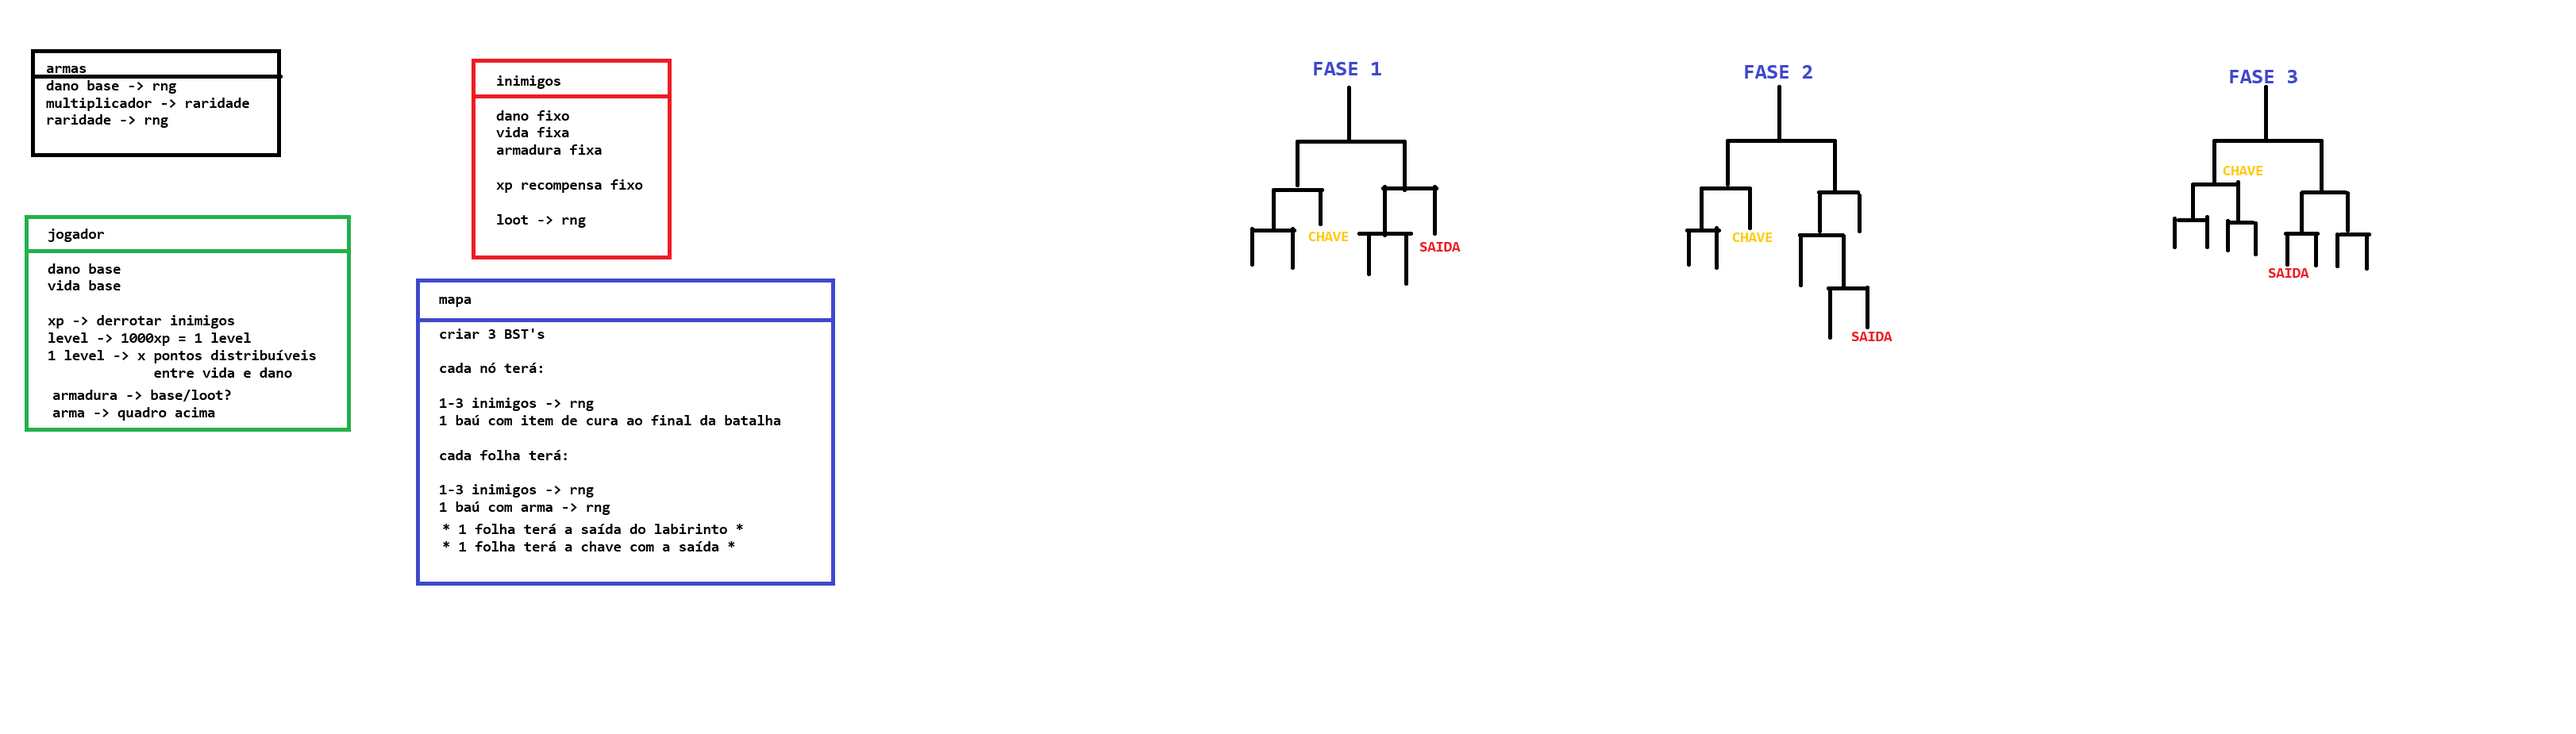
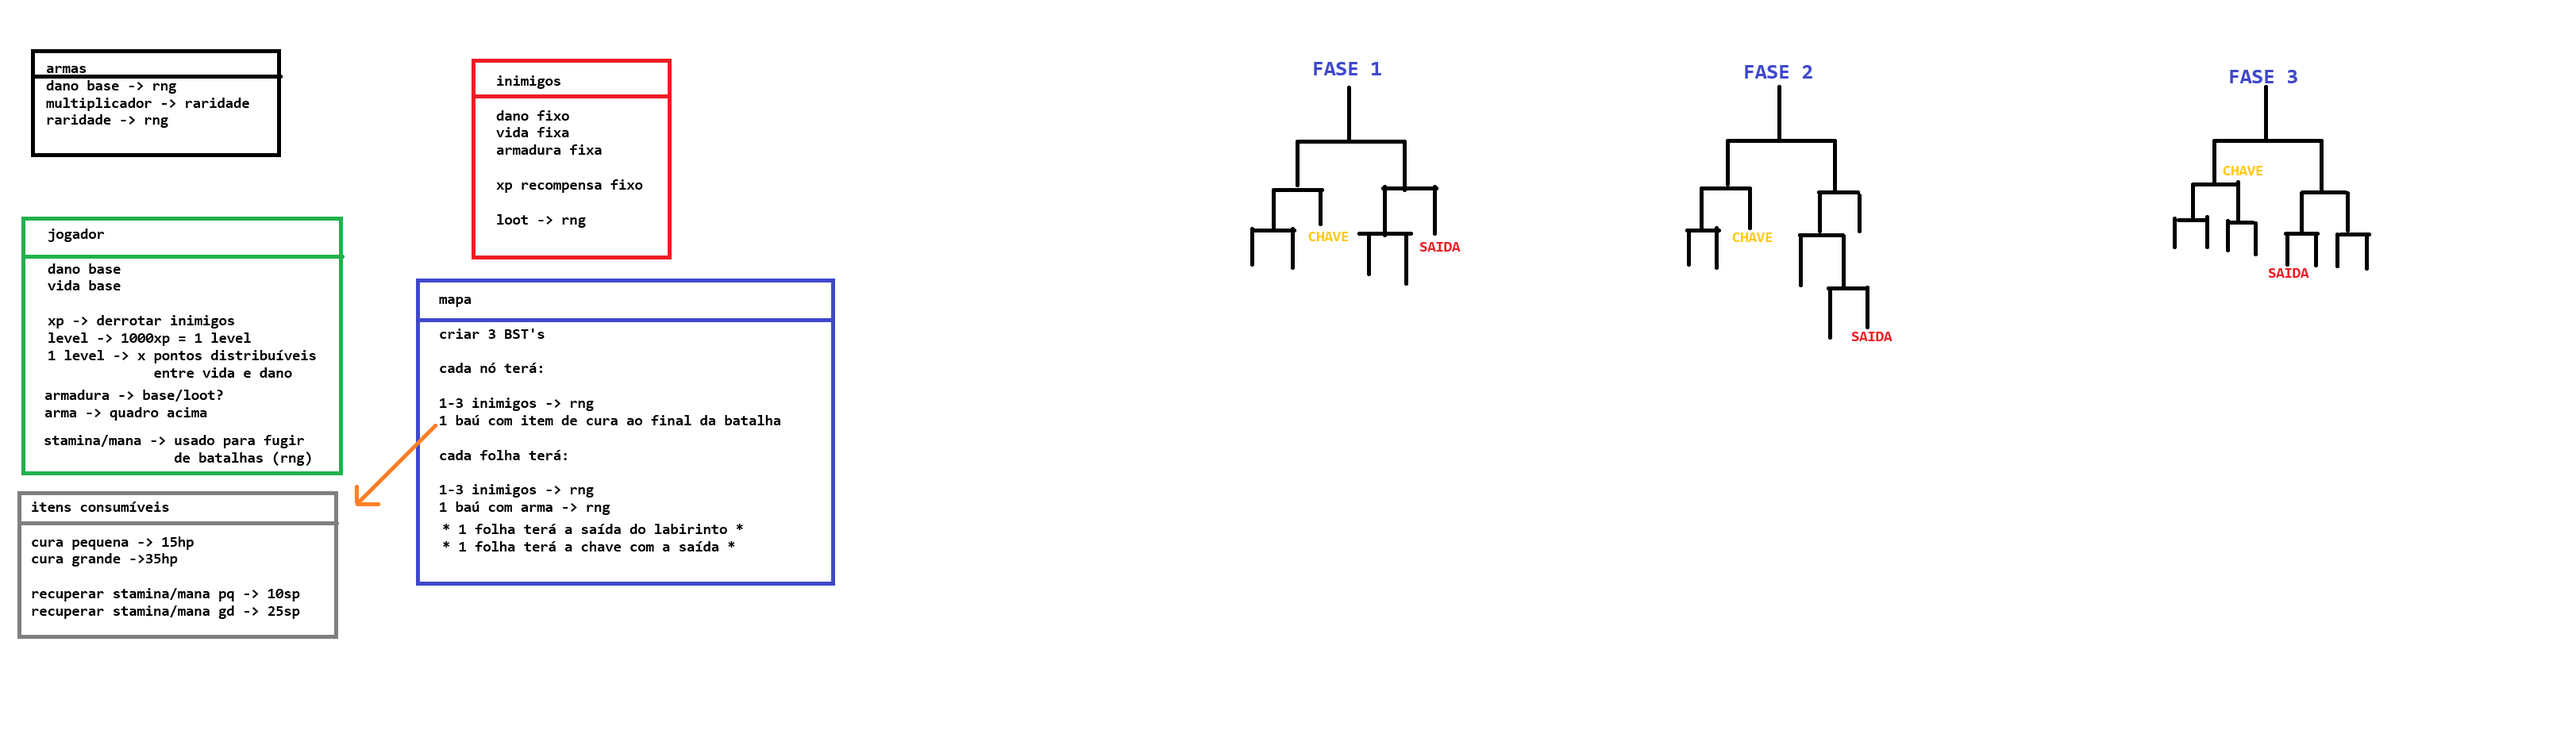
logica de inimigos simplificada + remoçao codigo inutilizado em testes

Changed region(s): [[0.0, 0.5146, 0.1556, 0.8778], [0.0, 0.333, 0.1556, 0.3632], [0.0, 0.2724, 0.1245, 0.3027]]

diff --git a/mainTestes.py b/mainTestes.py
@@ -1,7 +1,6 @@
-from Enemies.Rat import Rat
+from Enemies.Enemy import Enemy
 from Player.PlayerClassWarrior import PlayerClassWarrior
 from Weapon.Weapon import Weapon
-from Enemies.Ogre import Ogre
 from Player.Player import Player
 #rng
 import random
@@ -67,60 +66,57 @@ def createNewPlayer():
             player = Player(playerNameInput, 0, 1, PlayerClassWarrior(37, startingWeapon , 1, 2))
 
 
-
+    print(f"Jogador {player.name} criado com sucesso!")
     return player
 
 
 
 
-#battle rat
-def battleRat(jogador, rato):
+#battle
+def battle(player, enemy):
     while True:
 
-        rato.defend(jogador.playerClass.attack())
-        print(f"O jogador {jogador.name} atacou o rato com {jogador.playerClass.equipedWeapon.weaponName} e o dano foi: {jogador.playerClass.attack()}")
-        jogador.playerClass.defend(rato.attack())
-        print(f"O rato atacou o jogador! O dano recebido foi: {rato.attackDmg}")
+        print()
+        print(f"{player.name} HP: {player.playerClass.healthPoints}")
+        print(f"{enemy.name} HP: {enemy.healthPoints}")
 
-        if (jogador.playerClass.healthPoints <= 0):
+        enemy.defend(player.playerClass.attack())
+        print(f"O jogador {player.name} atacou o {enemy.name} com {player.playerClass.equipedWeapon.weaponName} e o dano foi: {player.playerClass.attack()}")
+        player.playerClass.defend(enemy.attack())
+        print(f"O {enemy.name} atacou o jogador! O dano recebido foi: {enemy.attackDmg}")
+
+        if (player.playerClass.healthPoints <= 0):
             print("Você morreu!")
             break
-        if(rato.healthPoints <= 0):
-            print("O rato morreu!")
-            jogador.xpPoints += rato.xpReward
-            print(f"Voce recebeu {rato.xpReward} xp.")
+        if(enemy.healthPoints <= 0):
+            print(f"O {enemy.name} morreu!")
+            player.xpPoints += enemy.xpReward
+            print(f"Voce recebeu {enemy.xpReward} xp.")
+            print()
             break
 
 
 
-#enemy
-rato = Rat()
-ogre = Ogre()
+# enemy
+rato = Enemy('Rat', 12, 3, 0, 20)
+ogre = Enemy ('Ogre', 21, 9, 1, 50)
 
 
 
+# player
 jogueidor = createNewPlayer()
-print(f"Jogador1 HP: {jogueidor.playerClass.healthPoints}")
-print(f"Rato HP: {rato.healthPoints}")
 print(f"Arma: {jogueidor.playerClass.equipedWeapon.weaponName} | Dano base: {jogueidor.playerClass.equipedWeapon.baseDamage} | Dano total: {jogueidor.playerClass.equipedWeapon.totaldmgValue} | Raridade: {jogueidor.playerClass.equipedWeapon.weaponRarity}")
 
-battleRat(jogueidor, rato)
-print(jogueidor.xpPoints)
+# 1st battle simulation
+battle(jogueidor, rato)
 
+# weapon drop simulation
+arma = createNewWeapon()
+jogueidor.playerClass.equipedWeapon = arma
+print("Voce encontrou uma nova arma!")
+print(f"Arma: {jogueidor.playerClass.equipedWeapon.weaponName} | Dano base: {jogueidor.playerClass.equipedWeapon.baseDamage} | Dano total: {jogueidor.playerClass.equipedWeapon.totaldmgValue} | Raridade: {jogueidor.playerClass.equipedWeapon.weaponRarity}")
 
-
-
-#print("Ogre apareceu!")
-#print(f"Jogador1 HP: {jogador1.healthPoints}")
-#print(f"Ogre HP: {ogre.healthPoints}")
-
-#attacking
-#ogre.defend(jogador1.attack())
-#jogador1.defend(ogre.attack())
-
-#print("* after attack *")
-#print(f"Jogador1 HP: {jogador1.healthPoints}")
-#print(f"Ogre HP: {ogre.healthPoints}")
-
+# 2nd battle simulation
+battle(jogueidor, ogre)
 
 

diff --git a/Enemies/Enemy.py b/Enemies/Enemy.py
@@ -1,6 +1,35 @@
+# __________________________________________________
+#|  STAGE 1 ENEMIES                                 |
+#|__________________________________________________|
+#| *rat => (12, 3, 0, 20) #hp, dmg, armor, xp       |
+#| *skelleton => (19, 6, 0, 35) #hp, dmg, armor, xp |
+#| *ogre => (21, 9, 1, 50) #hp, dmg, armor, xp      |
+#| *lich => (69, 12, 4, 100) #hp, dmg, armor, xp    | => BOSS AT THE DOOR
+#|---------------------------------------------------
+# __________________________________________________
+#|  STAGE 2 ENEMIES                                 |
+#|__________________________________________________|
+#| * => (14, 4, 0, 25) #hp, dmg, armor, xp       |
+#| * => (21, 7, 1, 40) #hp, dmg, armor, xp |
+#| * => (25, 10, 2, 60) #hp, dmg, armor, xp      |
+#| *giant => (72, 14, 5, 110) #hp, dmg, armor, xp   | => BOSS AT THE DOOR
+#|---------------------------------------------------
+# __________________________________________________
+#|  STAGE 3 ENEMIES                                 |
+#|__________________________________________________|
+#| * => (15, 5, 1, 25) #hp, dmg, armor, xp       |
+#| * => (22, 8, 2, 45) #hp, dmg, armor, xp |
+#| * => (27, 11, 4, 65) #hp, dmg, armor, xp      |
+#| *dragon => (80, 16, 9, 200) #hp, dmg, armor, xp  | => BOSS AT THE DOOR
+#|---------------------------------------------------
+
+#TO DO
+# Create a child class from enemy called `boss` with
+# weapon drop that got better dmg and rarity rate.
 class Enemy:
     #constructor
-    def __init__(self, healthPoints, attackDmg, armor, xpReward):
+    def __init__(self, name, healthPoints, attackDmg, armor, xpReward):
+        self.name = name
         self.healthPoints = healthPoints
         self.attackDmg = attackDmg
         self.armor = armor
